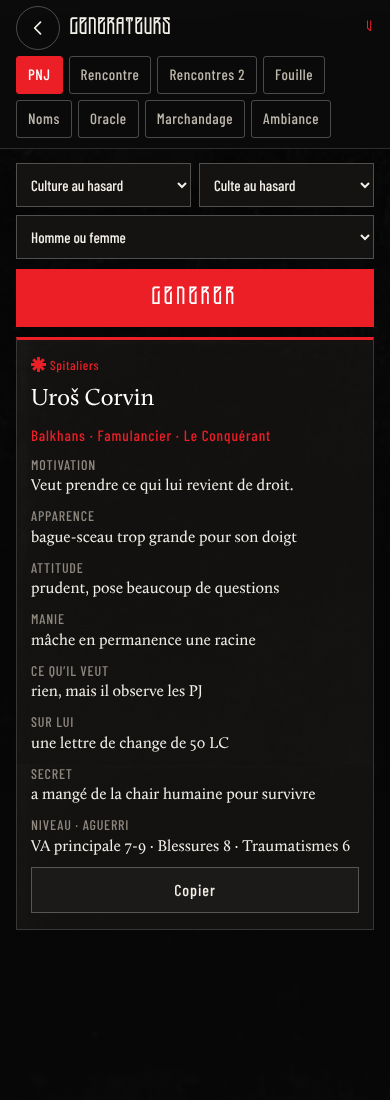
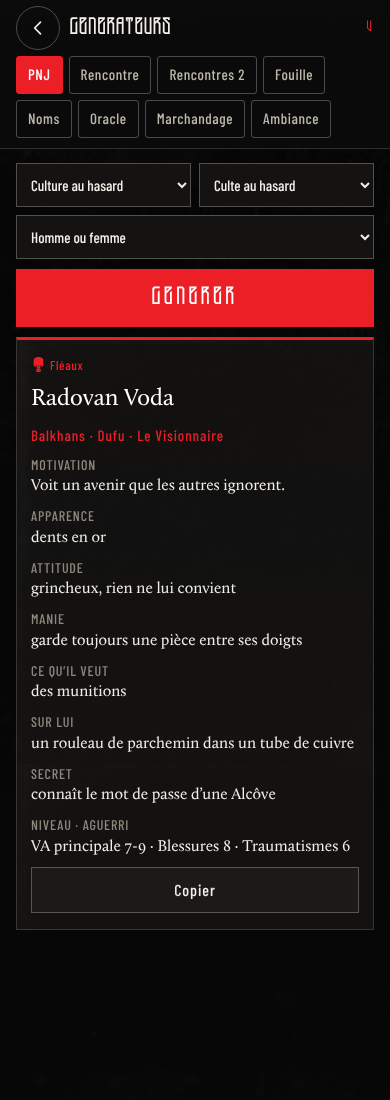
Rencontre : retrait de la ligne Combien
Claude-Session: https://claude.ai/code/session_01LtkstC13MjDizu5DuuNSSV

diff --git a/sw.js b/sw.js
@@ -1,5 +1,5 @@
 // Codex du MJ – cache hors ligne. La version change à chaque mise à jour.
-const V="codex-202610272110";
+const V="codex-202610272115";
 const FILES=["./", "app.js", "assets/BG_BLACK_1.jpg", "assets/BG_BLACK_12.jpg", "assets/Calluna-Regular.otf", "assets/DEGENESIS-v0.1.ttf", "assets/camp/Benesato-armoiries.jpg", "assets/camp/abacus.jpg", "assets/camp/arrivee-lucatore.jpg", "assets/camp/attila.jpg", "assets/camp/avantposte-helvetique.jpg", "assets/camp/ba-atlantique.jpg", "assets/camp/ba-brest-maison.jpg", "assets/camp/ba-brest-port.jpg", "assets/camp/ba-brest-rue.jpg", "assets/camp/ba-britannia.jpg", "assets/camp/ba-carnac.jpg", "assets/camp/ba-eau-profonde.jpg", "assets/camp/ba-ganaress.jpg", "assets/camp/ba-gantelet.jpg", "assets/camp/ba-jour-ganaress.jpg", "assets/camp/ba-mont-saint-michel.jpg", "assets/camp/ba-morlaix.jpg", "assets/camp/ba-nantes.jpg", "assets/camp/ba-ouessant.jpg", "assets/camp/ba-parel.jpg", "assets/camp/ba-profondeurs.jpg", "assets/camp/ba-raffinerie.jpg", "assets/camp/ba-rennes.jpg", "assets/camp/ba-terre-pecheurs.jpg", "assets/camp/bargeist-vikal.jpg", "assets/camp/camp-romano.jpg", "assets/camp/chrono.jpg", "assets/camp/cloitre.jpg", "assets/camp/ennio-gala.jpg", "assets/camp/foret.jpg", "assets/camp/jdm-comptoir.jpg", "assets/camp/jdm-cour-argent.jpg", "assets/camp/jdm-fauxbourdons.jpg", "assets/camp/jdm-ferrallies.jpg", "assets/camp/jdm-marais.jpg", "assets/camp/jdm-palais-hamza.jpg", "assets/camp/jdm-port-lagagne.jpg", "assets/camp/jdm-route-resistance.jpg", "assets/camp/jdm-saint-chenil.jpg", "assets/camp/jdm-terres-putain.jpg", "assets/camp/jdm-tours.jpg", "assets/camp/lucatore.jpg", "assets/camp/moulin.jpg", "assets/camp/neva.jpg", "assets/camp/papachico-neva.jpg", "assets/camp/scirocco.jpg", "assets/camp/sigle-bargeist.jpg", "assets/camp/t-luz.png", "assets/camp/t-octet.png", "assets/camp/t-pavel.png", "assets/camp/t-vex.png", "assets/camp/tomlenoir.jpg", "assets/camp/vikal.jpg", "assets/dice/d1.png", "assets/dice/d2.png", "assets/dice/d3.png", "assets/dice/d4.png", "assets/dice/d5.png", "assets/dice/d6.png", "assets/fonts/barlow-condensed-latin-500-normal.woff2", "assets/fonts/barlow-condensed-latin-600-normal.woff2", "assets/fonts/barlow-condensed-latin-700-normal.woff2", "assets/logo-clean.svg", "assets/lore/b-amsumo.jpg", "assets/lore/b-discordance.jpg", "assets/lore/b-dormeur.jpg", "assets/lore/b-ganaress.jpg", "assets/lore/b-leviathan.jpg", "assets/lore/b-leviathaniques.jpg", "assets/lore/b-mammouths.jpg", "assets/lore/b-murnakir.jpg", "assets/lore/b-sporuleux.jpg", "assets/lore/b-tsar.jpg", "assets/lore/c-anabaptistes.jpg", "assets/lore/c-anubiens.jpg", "assets/lore/c-apocalyptiques.jpg", "assets/lore/c-blafards.jpg", "assets/lore/c-chroniqueurs.jpg", "assets/lore/c-clanistes.jpg", "assets/lore/c-ferrailleurs.jpg", "assets/lore/c-fleaux.jpg", "assets/lore/c-hellvetiques.jpg", "assets/lore/c-jehammetans.jpg", "assets/lore/c-juges.jpg", "assets/lore/c-neolibyens.jpg", "assets/lore/c-spitaliers.jpg", "assets/lore/k-adriani.jpg", "assets/lore/k-bordenoir.jpg", "assets/lore/k-britoni.jpg", "assets/lore/k-cafards.jpg", "assets/lore/k-corredores.jpg", "assets/lore/k-enemoi.jpg", "assets/lore/k-exaltiens.jpg", "assets/lore/k-flagellants.jpg", "assets/lore/k-garganti.jpg", "assets/lore/k-massai.jpg", "assets/lore/k-matadors.jpg", "assets/lore/k-pandoriens.jpg", "assets/lore/k-phosphorites.jpg", "assets/lore/k-pneumanciens.jpg", "assets/lore/k-resistance.jpg", "assets/lore/k-romano.jpg", "assets/lore/k-shabath.jpg", "assets/lore/k-storski.jpg", "assets/lore/k-stukov.jpg", "assets/lore/k-touloni.jpg", "assets/lore/k-usudi.jpg", "assets/lore/k-voivodules.jpg", "assets/lore/l-bassham.jpg", "assets/lore/l-bayonne.jpg", "assets/lore/l-black-atlantic.jpg", "assets/lore/l-brest.jpg", "assets/lore/l-chapelle-vicarent.jpg", "assets/lore/l-corpse.jpg", "assets/lore/l-entrepots.jpg", "assets/lore/l-lucatore.jpg", "assets/lore/l-mediterranee.jpg", "assets/lore/l-morlaix.jpg", "assets/lore/l-msm.jpg", "assets/lore/l-nantes.jpg", "assets/lore/l-nullpellia.jpg", "assets/lore/l-ouest-rhone.jpg", "assets/lore/l-plateformes.jpg", "assets/lore/l-port-lagagne.jpg", "assets/lore/l-pressoir.jpg", "assets/lore/l-rennes.jpg", "assets/lore/l-rhone.jpg", "assets/lore/l-romano-camp.jpg", "assets/lore/l-saint-brieuc.jpg", "assets/lore/l-saint-chenil.jpg", "assets/lore/l-stukov.jpg", "assets/lore/l-terres-putain.jpg", "assets/lore/l-toulon.jpg", "assets/lore/l-unya.jpg", "assets/lore/m-caire.jpg", "assets/lore/m-eshaton.jpg", "assets/lore/m-fractale.jpg", "assets/lore/m-spores.jpg", "assets/lore/m-ziggurat.jpg", "assets/lore/p-biokinesie-hero.jpg", "assets/lore/p-biokinesie.jpg", "assets/lore/p-dushani-hero.jpg", "assets/lore/p-dushani.jpg", "assets/lore/p-homo.jpg", "assets/lore/p-pheromanciens-hero.jpg", "assets/lore/p-pheromanciens.jpg", "assets/lore/p-pregnostiques-hero.jpg", "assets/lore/p-pregnostiques.jpg", "assets/lore/p-psychokinesie-hero.jpg", "assets/lore/p-psychokinesie.jpg", "assets/lore/p-psychovores.jpg", "assets/lore/p-sepsie.jpg", "assets/lore/r-balkhans.jpg", "assets/lore/r-borca.jpg", "assets/lore/r-cathedrale.jpg", "assets/lore/r-franka.jpg", "assets/lore/r-hellvetica.jpg", "assets/lore/r-hybrispanie.jpg", "assets/lore/r-justitienne.jpg", "assets/lore/r-pollen.jpg", "assets/lore/r-purgare.jpg", "assets/lore/r-tripol.jpg", "assets/lore/s-biokinese.png", "assets/lore/s-dushan.png", "assets/lore/s-pheromancie.png", "assets/lore/s-pregnosticisme.png", "assets/lore/s-psychokinese.png", "assets/lore/x-argyre-hero.jpg", "assets/lore/x-argyre.jpg", "assets/lore/x-aries.jpg", "assets/lore/x-aspera.jpg", "assets/lore/x-chernobog.jpg", "assets/lore/x-gusev.jpg", "assets/lore/x-triglav.jpg", "assets/pnj/ba-ampere.jpg", "assets/pnj/ba-arnika.jpg", "assets/pnj/ba-balor.jpg", "assets/pnj/ba-barringer.jpg", "assets/pnj/ba-bascule.jpg", "assets/pnj/ba-docteur-vega.jpg", "assets/pnj/ba-eris.jpg", "assets/pnj/ba-garlene.jpg", "assets/pnj/ba-helios.jpg", "assets/pnj/ba-ifrit.jpg", "assets/pnj/ba-imbali.jpg", "assets/pnj/ba-malinesse.jpg", "assets/pnj/ba-oppolus.jpg", "assets/pnj/ba-parel.jpg", "assets/pnj/ba-soufiane.jpg", "assets/pnj/ba-vicarent.jpg", "assets/pnj/ets-abacus.jpg", "assets/pnj/ets-barghest.jpg", "assets/pnj/ets-carmino-ferro.jpg", "assets/pnj/ets-ennio-benesato.jpg", "assets/pnj/ets-fernex-le-vigilant.jpg", "assets/pnj/ets-gala-lombardi.jpg", "assets/pnj/ets-leurre-5.jpg", "assets/pnj/ets-lucio-bastardo.jpg", "assets/pnj/ets-neva-l-emissaire-de-fer.jpg", "assets/pnj/ets-papa-chicco.jpg", "assets/pnj/ets-scirocco-le-pecheur.jpg", "assets/pnj/ets-tom-le-noir.jpg", "assets/pnj/ets-verena.jpg", "assets/pnj/ets-vikal.jpg", "assets/pnj/jdm-adonai.jpg", "assets/pnj/jdm-albatre.jpg", "assets/pnj/jdm-arcville.jpg", "assets/pnj/jdm-ayubu-le-limier.jpg", "assets/pnj/jdm-baptiste.jpg", "assets/pnj/jdm-callisto.jpg", "assets/pnj/jdm-crotale.jpg", "assets/pnj/jdm-deich.jpg", "assets/pnj/jdm-eisenhauer.jpg", "assets/pnj/jdm-facteur.jpg", "assets/pnj/jdm-hamza-abubakar-iii.jpg", "assets/pnj/jdm-hexell.jpg", "assets/pnj/jdm-hurlante.jpg", "assets/pnj/jdm-ivar.jpg", "assets/pnj/jdm-leurre-5.jpg", "assets/pnj/jdm-meridien.jpg", "assets/pnj/jdm-mirage.jpg", "assets/pnj/jdm-nephraim.jpg", "assets/pnj/jdm-nestor.jpg", "assets/pnj/jdm-opis-la-grenouille.jpg", "assets/pnj/jdm-orma.jpg", "assets/pnj/jdm-sabata.jpg", "assets/pnj/jdm-verican.jpg", "assets/pnj/jdm-wachsmann.jpg", "assets/pnj/jdm-zoe-morceau.jpg", "assets/pnj/jdm-zohra-consule-de-toulon.jpg", "assets/tarot/0.jpg", "assets/tarot/01.jpg", "assets/tarot/02.jpg", "assets/tarot/03.jpg", "assets/tarot/04.jpg", "assets/tarot/05.jpg", "assets/tarot/06.jpg", "assets/tarot/07.jpg", "assets/tarot/08.jpg", "assets/tarot/09.jpg", "assets/tarot/10.jpg", "assets/tarot/11.jpg", "assets/tarot/12.jpg", "assets/tarot/13.jpg", "assets/tarot/14.jpg", "assets/tarot/15.jpg", "assets/tarot/16.jpg", "assets/tarot/17.jpg", "assets/tarot/18.jpg", "assets/tarot/19.jpg", "assets/tarot/20.jpg", "assets/tarot/21.jpg", "assets/tarot/tarot-dos-01.jpg", "data/bazar.js", "data/campagne.js", "data/gen.js", "data/icons.js", "data/lore.js", "data/oracle.js", "data/potentiels.js", "data/regles.js", "data/survie-regles.js", "data/survie.js", "icons/icon-192.png", "icons/icon-512.png", "icons/maskable-512.png", "index.html", "manifest.webmanifest"];
 self.addEventListener("install",e=>{e.waitUntil(caches.open(V).then(c=>c.addAll(FILES)).then(()=>self.skipWaiting()))});
 self.addEventListener("activate",e=>{e.waitUntil(caches.keys().then(ks=>Promise.all(ks.filter(k=>k!==V).map(k=>caches.delete(k)))).then(()=>self.clients.claim()))});

diff --git a/app.js b/app.js
@@ -303,7 +303,7 @@ function generateurs(){
       <p><span class="k">Niveau · ${esc(p.rg.n)}</span>VA principale ${p.rg.va} · Blessures ${p.rg.bs} · Traumatismes ${p.rg.tr}</p>
       <div class="btnrow"><button class="btn" data-act="copynpc">Copier</button></div></article>`;}
   }
-  if(t==="rencontre"){form=`<div class="selrow">${selC}</div>`;if(o)out=`<article class="gen-card"><span class="cult">${icon(o.v.c)}${esc(o.v.c)}</span><h2>${esc(o.v.r)}</h2><p><span class="k">Combien</span>${esc(o.v.nb)} · réaction ${esc(o.v.re)}</p><p><span class="k">Complication</span>${esc(o.v.cp.charAt(0).toUpperCase()+o.v.cp.slice(1))}</p><p><span class="k">Ambiance</span>${esc(o.v.m)}</p></article>`}
+  if(t==="rencontre"){form=`<div class="selrow">${selC}</div>`;if(o)out=`<article class="gen-card"><span class="cult">${icon(o.v.c)}${esc(o.v.c)}</span><h2>${esc(o.v.r)}</h2><p><span class="k">Réaction</span>${esc(o.v.re.charAt(0).toUpperCase()+o.v.re.slice(1))}</p><p><span class="k">Complication</span>${esc(o.v.cp.charAt(0).toUpperCase()+o.v.cp.slice(1))}</p><p><span class="k">Ambiance</span>${esc(o.v.m)}</p></article>`}
   if(t==="fouille"){form=`<div class="selrow">${selC}</div>`;if(o){const f=o.v;out=`<article class="gen-card"><span class="cult">${icon(f.c)}${esc(f.c)} · difficulté pour trouver le site : ${f.dif}</span><h2>${esc(f.site.charAt(0).toUpperCase()+f.site.slice(1))}</h2>
       <p><span class="k">Ce qu’on remarque</span>${esc(f.det.charAt(0).toUpperCase()+f.det.slice(1))}</p><p><span class="k">Danger</span>${esc(f.dan.charAt(0).toUpperCase()+f.dan.slice(1))}</p><p><span class="k">Trouvaille</span>${esc(f.obj)}, ${esc(f.etat)}</p><p><span class="k">Niveau technologique</span>Tech ${f.tech} · ${f.kg} kg de débris</p><p><span class="k">Valeur estimée</span>achat ~${f.buy} LC · revente ~${f.sell} LC aux Chroniqueurs</p></article>`}}
   if(t==="nom"){form=`<div class="selrow">${selC}<select class="sel" data-in="gsexe" aria-label="Sexe"><option value="">Mélangé</option><option value="h" ${S.gen.sexe==="h"?"selected":""}>Hommes</option><option value="f" ${S.gen.sexe==="f"?"selected":""}>Femmes</option></select></div>`;if(o)out=`<article class="gen-card"><span class="cult">${icon(o.v.c)}${esc(o.v.c)}</span>${o.v.l.map(n=>`<h2 style="font-size:21px">${esc(n)}</h2>`).join("")}</article>`}
@@ -367,7 +367,7 @@ const DIF_CULT={Borca:2,Franka:5,Pollen:4,Balkhans:4,Hybrispanie:5,Purgare:3,Afr
 function doGen(){
   const t=S.genTab;let v;
   if(t==="pnj")v=genNPC();
-  if(t==="rencontre"){const c=S.gen.culture||pick(CULTS);v={c,r:pick(GEN.rencontres[c]),m:pick(GEN.meteo),nb:pick(GEN.nombre),re:pick(GEN.reaction),cp:pick(GEN.complication)}}
+  if(t==="rencontre"){const c=S.gen.culture||pick(CULTS);v={c,r:pick(GEN.rencontres[c]),m:pick(GEN.meteo),re:pick(GEN.reaction),cp:pick(GEN.complication)}}
   if(t==="fouille"){const c=S.gen.culture||pick(CULTS);const dc=Math.max(0,[1,2,3].map(()=>rnd(6)+1).filter(x=>x===6).length);const lv=Math.min(6,3+Math.floor(dc/2)+(Math.random()<.25?1:0)-(Math.random()<.35?1:0));const tech=["I","II","III","IV","V","VI"][Math.max(0,lv-1)];const kg=1+rnd(6);v={c,dif:DIF_CULT[c],site:pick(GEN.ruines),det:pick(GEN.detail),dan:pick(GEN.danger),obj:pick(GEN.trouvailles),etat:pick(GEN.etat),tech,kg,buy:TECH_PRICE[tech][0]*kg,sell:TECH_PRICE[tech][1]*kg}}
   if(t==="nom"){const c=S.gen.culture||pick(CULTS),C=GEN.cultures[c];v={c,l:Array.from({length:6},()=>pick(C[S.gen.sexe||(Math.random()<.5?"h":"f")])+" "+pick(C.n))}}
   if(t==="meteo")v=pick(GEN.meteo);
